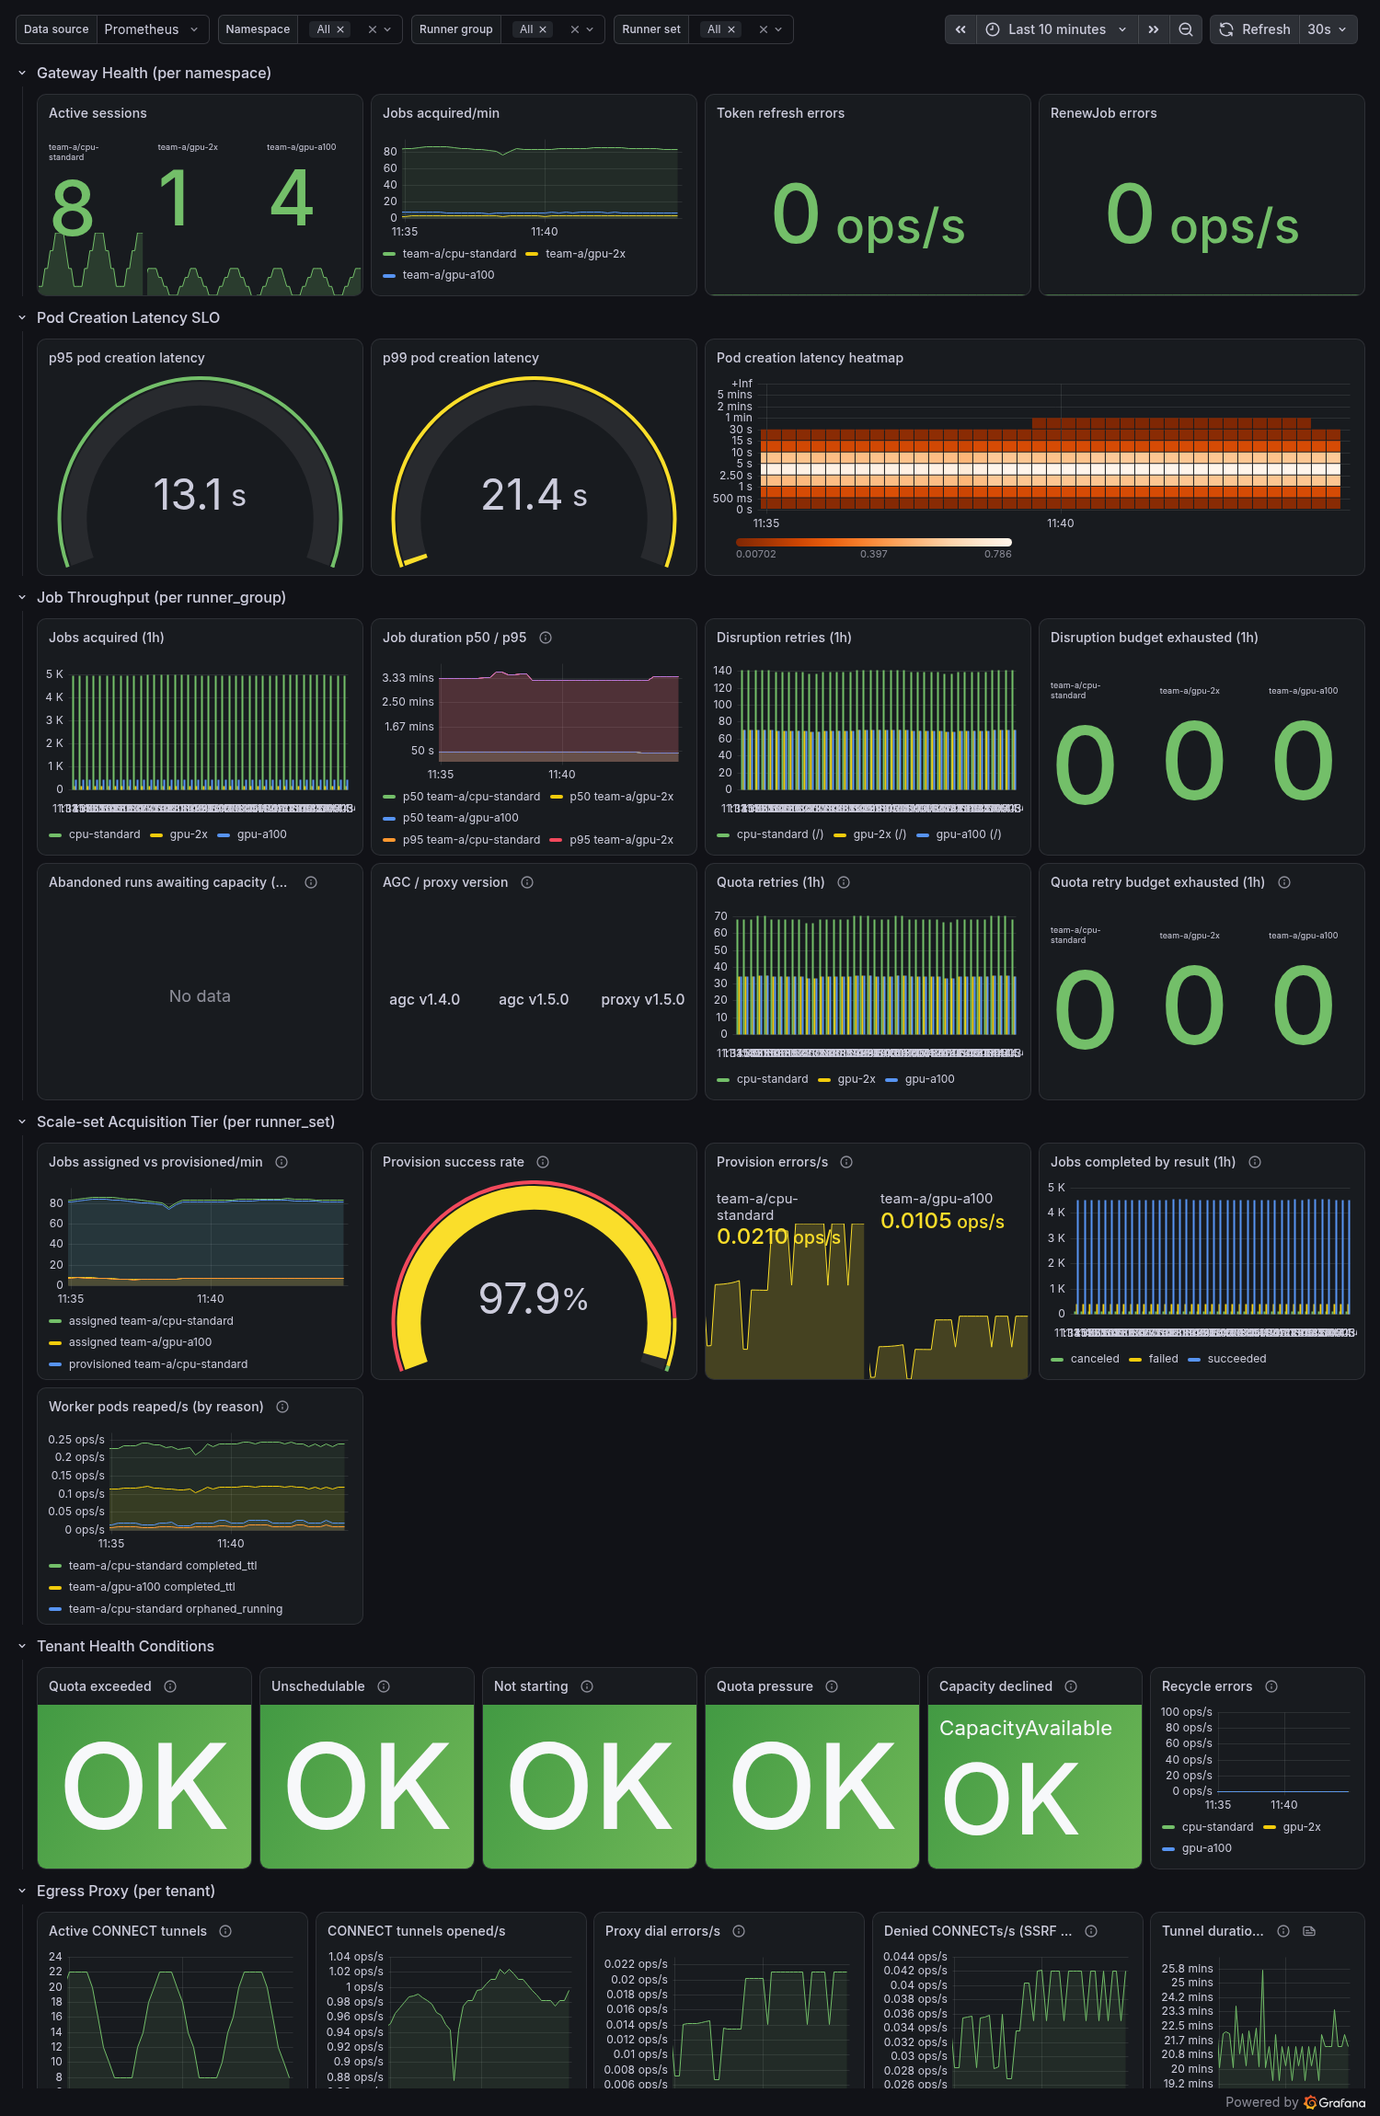
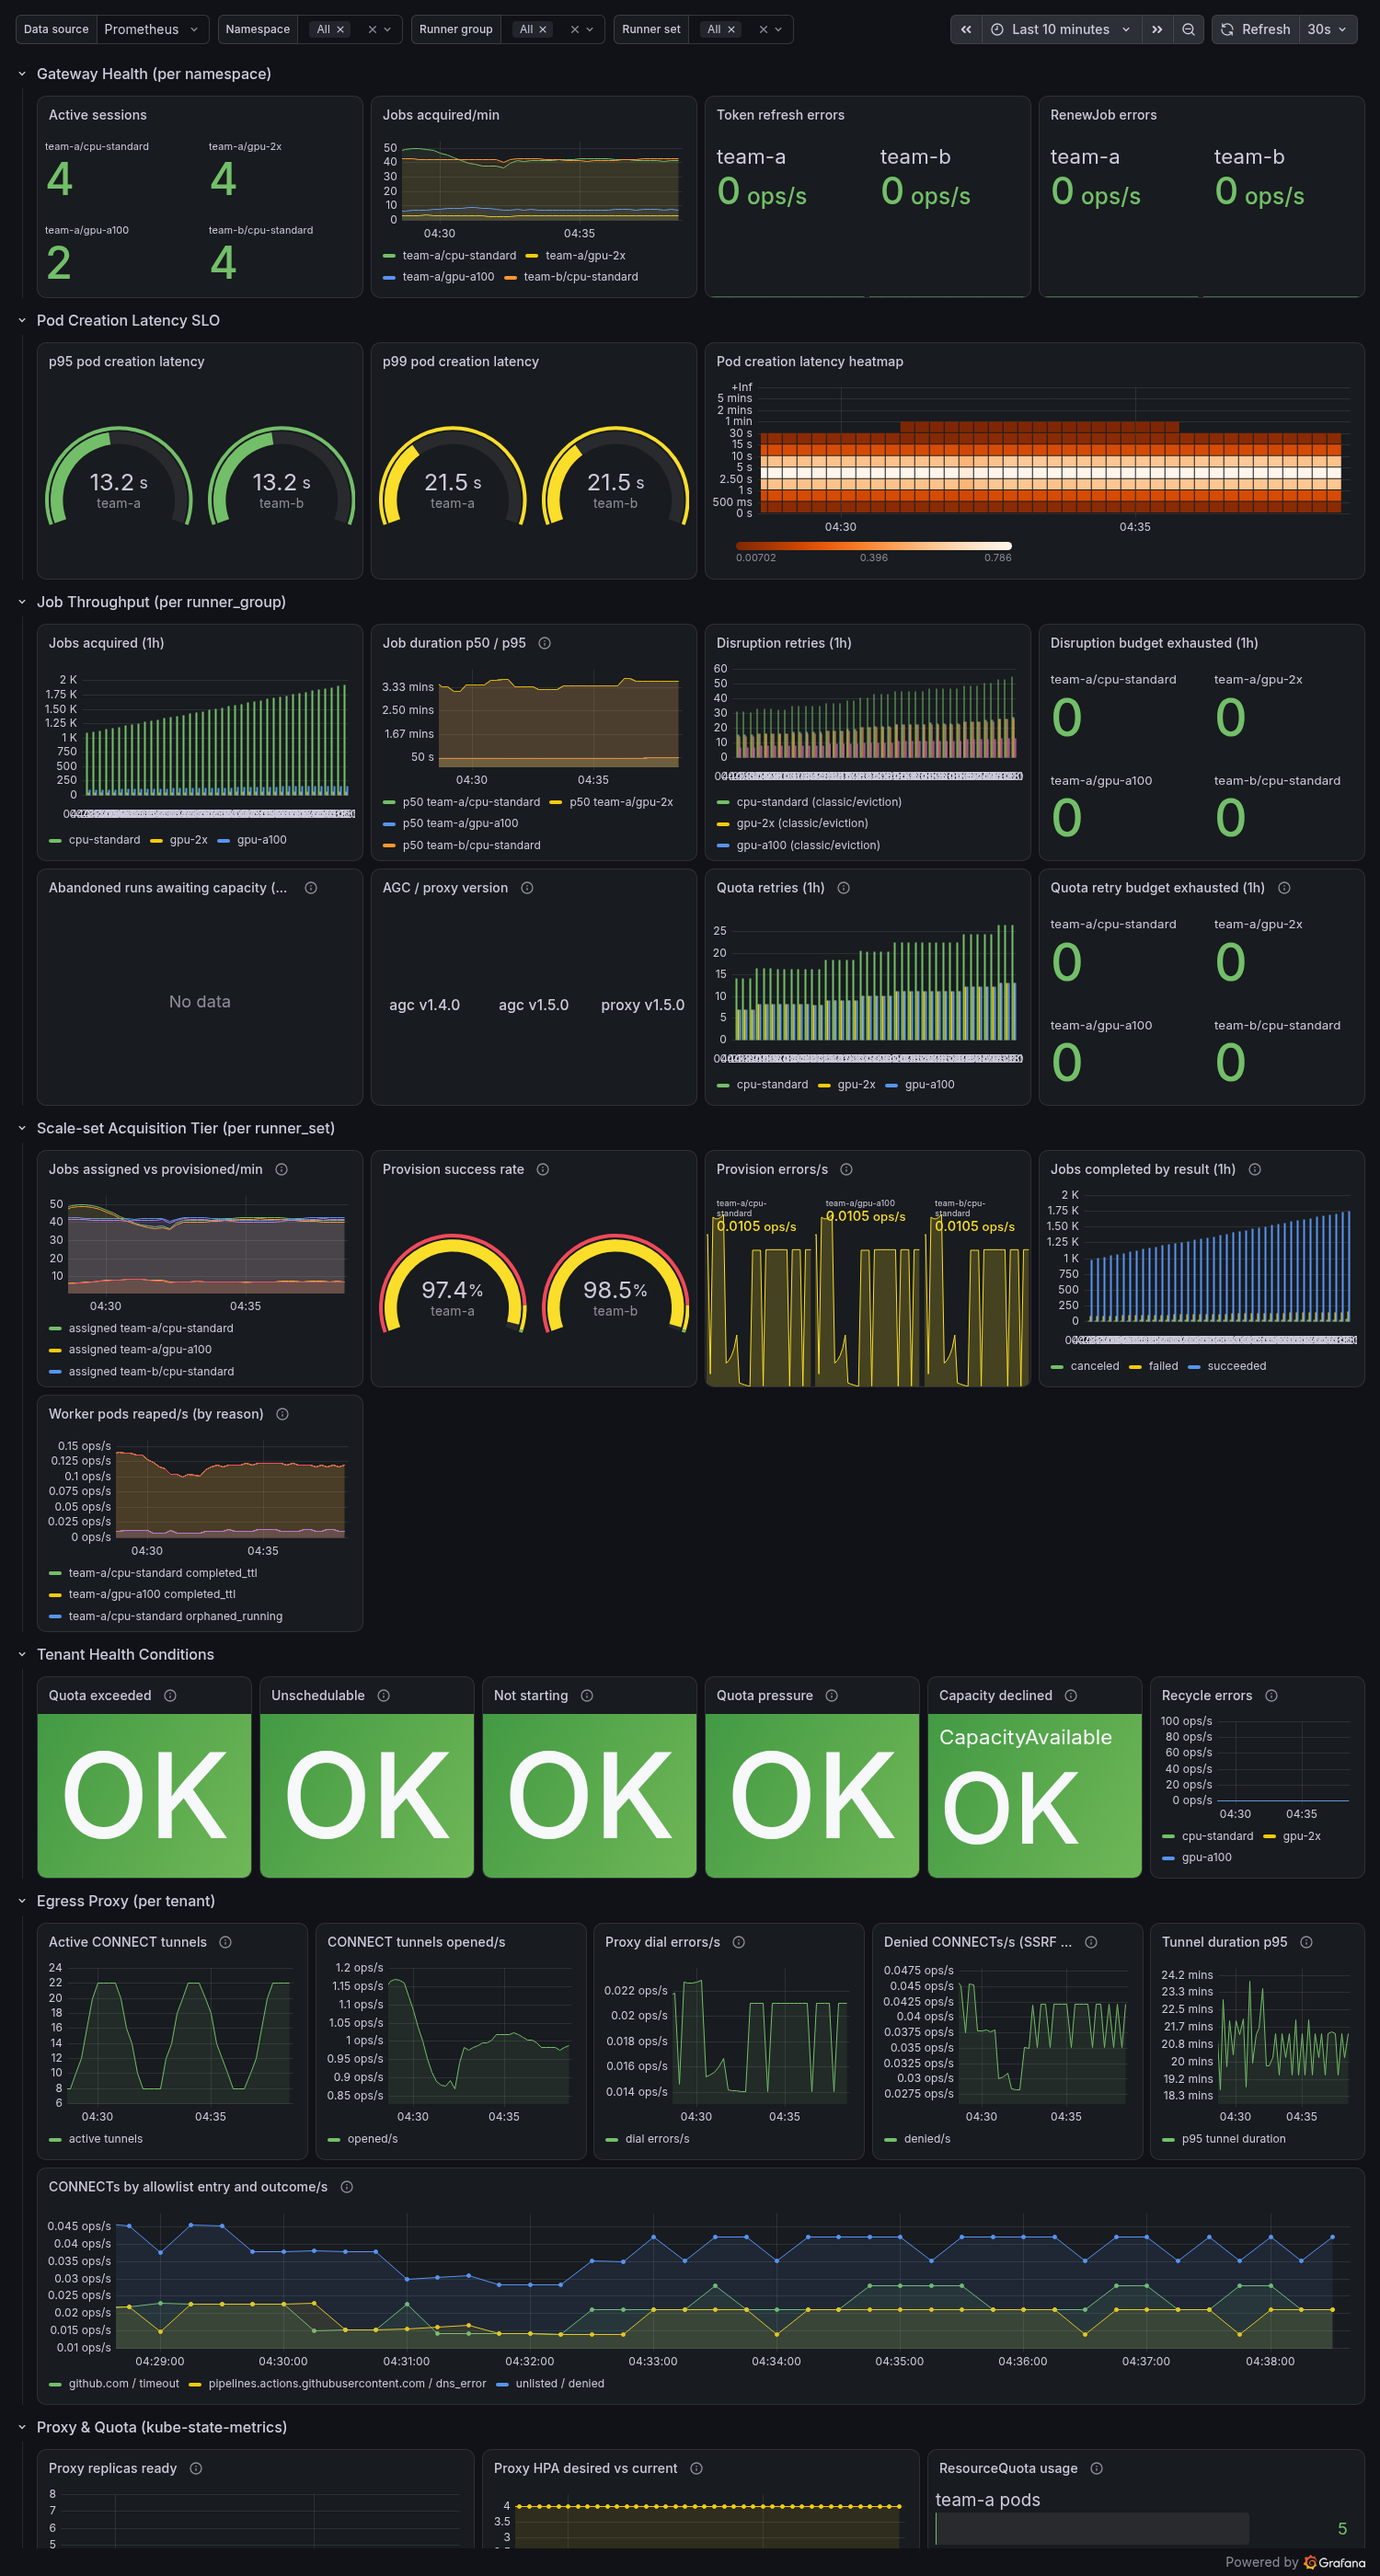
feat(monitoring): plot proxy CONNECT outcomes by allowlist entry on the tenant dashboard (Q1229)

diff --git a/deploy/monitoring/preview/exporter.py b/deploy/monitoring/preview/exporter.py
@@ -295,6 +295,13 @@ def render():
         # Held below the ProxyConnectDenied alert's 0.1/s threshold so the preview
         # shows the panel populated without the stack rendering a firing alert.
         L.append(f'actions_gateway_proxy_connect_denied_total{{namespace="{ns}"}} {counter_total(0.02, elapsed)}')
+        # CONNECTs by allowlist entry and outcome (Q1178); the tenant dashboard plots every outcome but tunneled.
+        for dest, outcome, rate in (
+            ("github.com", "tunneled", 0.4), ("pipelines.actions.githubusercontent.com", "tunneled", 0.1),
+            ("github.com", "timeout", 0.012), ("pipelines.actions.githubusercontent.com", "dns_error", 0.01),
+            ("unlisted", "denied", 0.02),
+        ):
+            L.append(f'actions_gateway_proxy_connects_total{{namespace="{ns}",destination="{dest}",outcome="{outcome}"}} {counter_total(rate, elapsed)}')
         # tunnel duration: center idx 5 (~60s)
         L += hist_lines("actions_gateway_proxy_tunnel_duration_seconds", f'namespace="{ns}"', PROXY_BUCKETS, 0.5, 5, elapsed)
 

diff --git a/docs/operations/observability-dashboards.md b/docs/operations/observability-dashboards.md
@@ -106,6 +106,7 @@ Panel titles here drop the `Worker`/`Workers` prefix the row header already supp
 | Proxy dial errors/s | `rate(actions_gateway_proxy_dial_errors_total[5m])` | Time series |
 | Denied CONNECTs/s (SSRF signal) | `rate(actions_gateway_proxy_connect_denied_total[5m])` | Time series |
 | Tunnel duration p95 | `histogram_quantile(0.95, rate(actions_gateway_proxy_tunnel_duration_seconds_bucket[5m]))` | Time series |
+| CONNECTs by allowlist entry and outcome/s | `sum by (destination, outcome) (rate(actions_gateway_proxy_connects_total{outcome!="tunneled"}[5m]))` | Time series |
 
 **Row 7 — Proxy & Quota (kube-state-metrics)**
 
